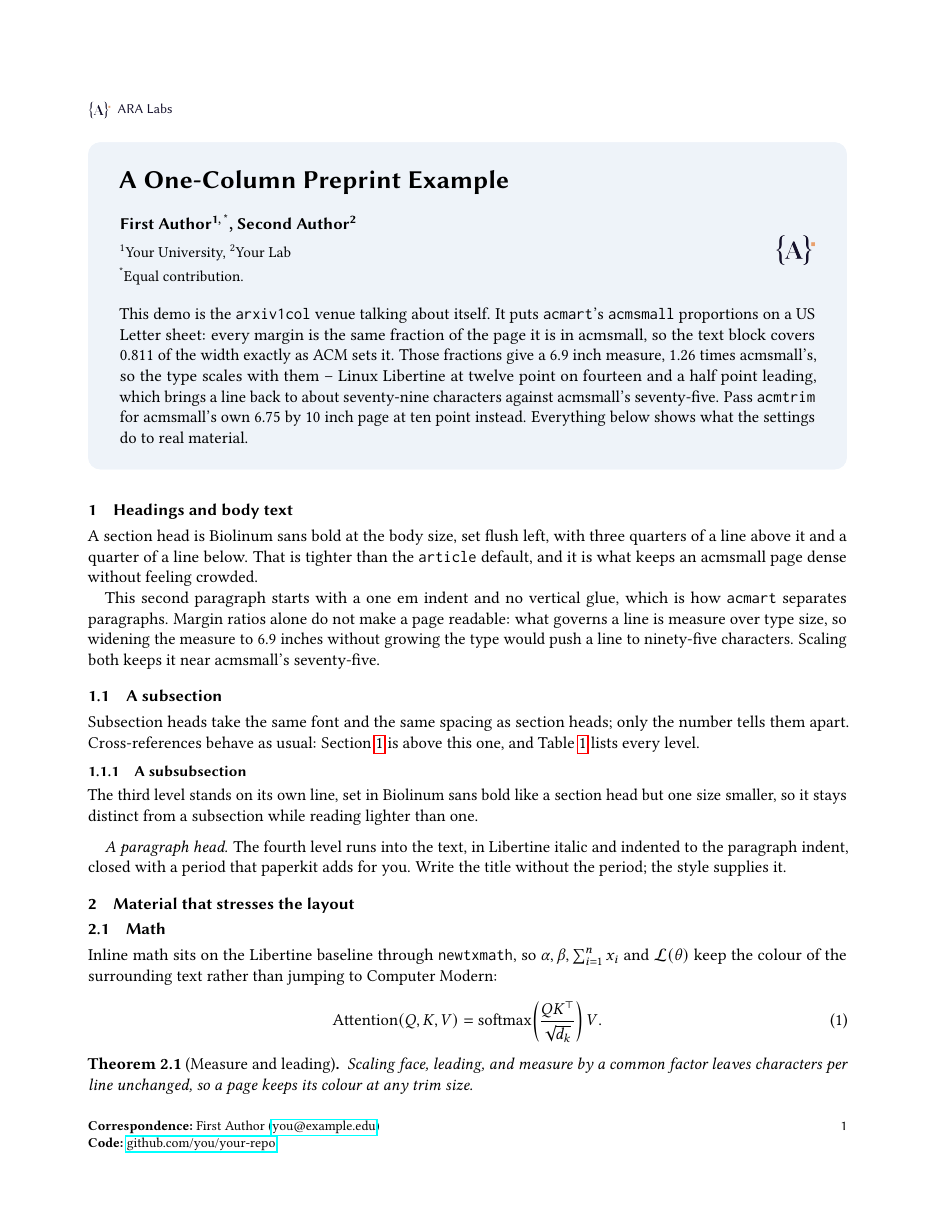
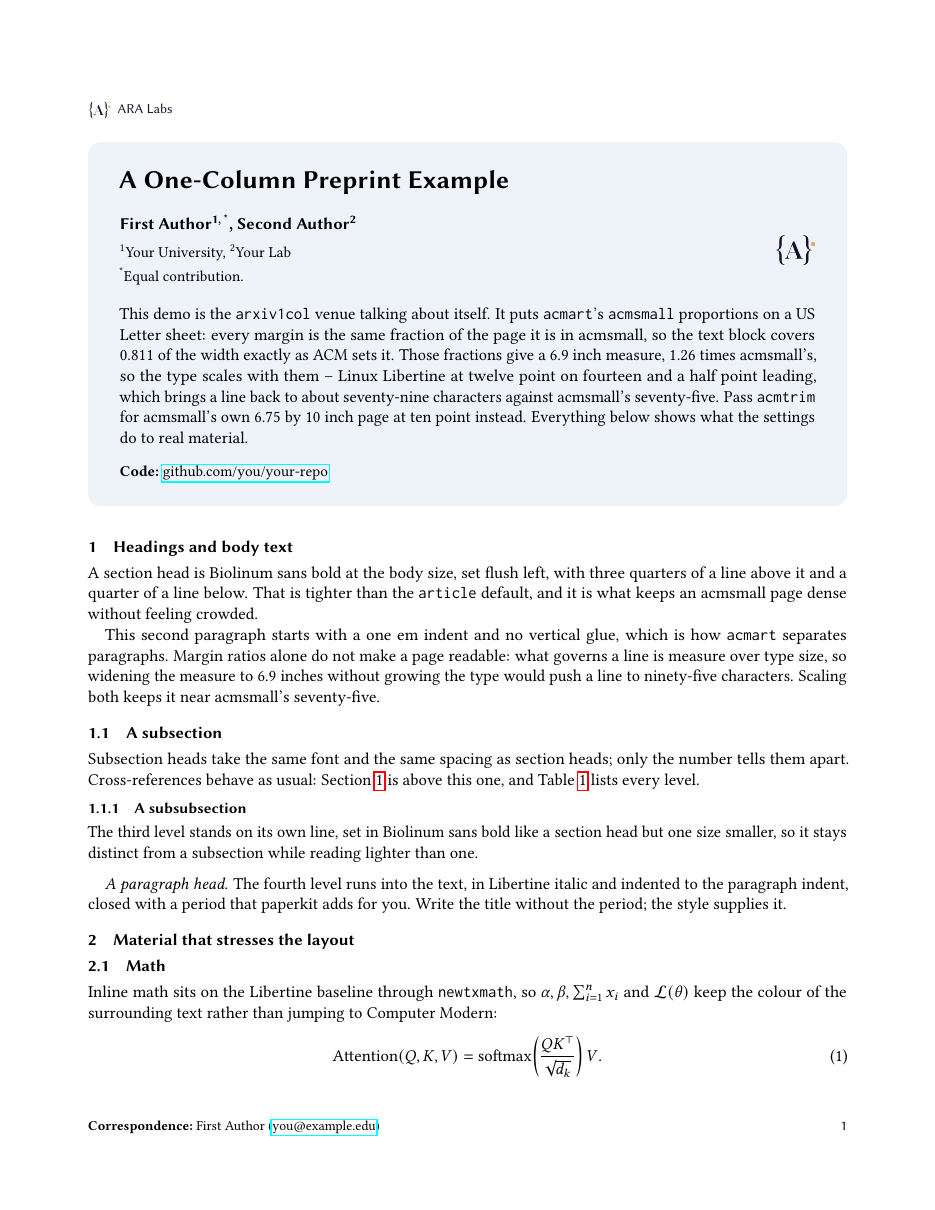
arxiv1col: set the code link under the abstract (#7)
The one-column panel now closes with the code link, set small under the abstract, instead of sending it to the first-page foot; correspondence keeps the foot. The native (nopanel) title block renders the link the same way, so arxiv1col,nopanel keeps it too. Anonymous mode drops it everywhere.

Also updates the README placement docs, sets a papercode line in the natbib fixture, and adds a text-extraction check that the arxiv1col,nopanel build renders the link.

Changed region(s): [[0.093, 0.3669, 0.8995, 0.9479], [0.8684, 0.7645, 0.8995, 0.8256]]

diff --git a/tests/paperkit-natbib.tex b/tests/paperkit-natbib.tex
@@ -19,6 +19,7 @@
 \paperrunningtitle{PaperKit smoke test}
 \paperauthors{Test Author}
 \paperaffiliations{Test University}
+\papercode{\href{https://github.com/you/your-repo}{github.com/you/your-repo}}
 \begin{document}
 \makepaperheader
 PaperKit loads natbib by default.

diff --git a/README.md b/README.md
@@ -179,19 +179,19 @@ so the head is never blank.
 Neither end carries a rule, as in acmart -- both `standardpagestyle` and
 `firstpagestyle` zero the two widths.
 
-The foot of the first page carries `\papercorrespondence` and `\papercode`,
-where acmsmall puts its author addresses, rather than running them under the
-abstract. They wrap inside a measure that stops short of the folio. Later pages
-show the page number alone, unless `\papercopyright` is set.
+The foot of the first page carries `\papercorrespondence`, where acmsmall puts
+its author addresses. It wraps inside a measure that stops short of the folio.
+Later pages show the page number alone, unless `\papercopyright` is set.
 
 ### The title block
 
 The title, authors, affiliations, and note are flush left, as in acmsmall. The
 abstract below them is justified, which is the one departure from the
-two-column `arxiv` panel -- that one keeps its ragged right. The panel ends at
-the abstract: there is no footer row, since the emails are at the foot of the
-page and the brand is in the head. The `\paperlogo` mark and wordmark, if set,
-sit at the right of the author block instead, vertically centred on it.
+two-column `arxiv` panel -- that one keeps its ragged right. The `\papercode`
+link closes the panel, set small under the abstract. There is no footer row:
+the emails are at the foot of the page and the brand is in the head. The
+`\paperlogo` mark and wordmark, if set, sit at the right of the author block
+instead, vertically centred on it.
 
 Centre the block instead with:
 
@@ -271,10 +271,11 @@ wordmark plus any number of logos on the right, all vertically centered:
 \addpaperlogo[22pt]{figures/company.pdf}    % optional per-logo height
 ```
 
-`arxiv1col` has no panel footer: it moves correspondence and code to the foot
-of the first page. The `\paperlogo` mark and wordmark sit at the right of the
-author block instead, vertically centred on it, and `\addpaperlogo` does
-nothing there. Everything else uses the footer as described.
+`arxiv1col` has no panel footer: it moves the correspondence to the foot of
+the first page and sets the code link under the abstract instead. The
+`\paperlogo` mark and wordmark sit at the right of the author block, vertically
+centred on it, and `\addpaperlogo` does nothing there. Everything else uses the
+footer as described.
 
 Drop the wordmark with `\paperlogo{}{...}`, or the image with
 `\paperlogo{Your Lab}{}`. Vector logos (PDF, EPS) stay crisp at any size; PNG
@@ -285,8 +286,8 @@ out of the box. Replace it with your real mark, or rebuild a different one from
 `figures/logo-placeholder.tex` (`pdflatex logo-placeholder.tex`).
 
 In anonymous mode the panel prints "Anonymous Authors" and drops the
-correspondence row on its own, so a blind submission stays blind even if you
-force `panel` on.
+correspondence row and the code link on its own, so a blind submission stays
+blind even if you force `panel` on.
 
 ## What the package already loads
 
